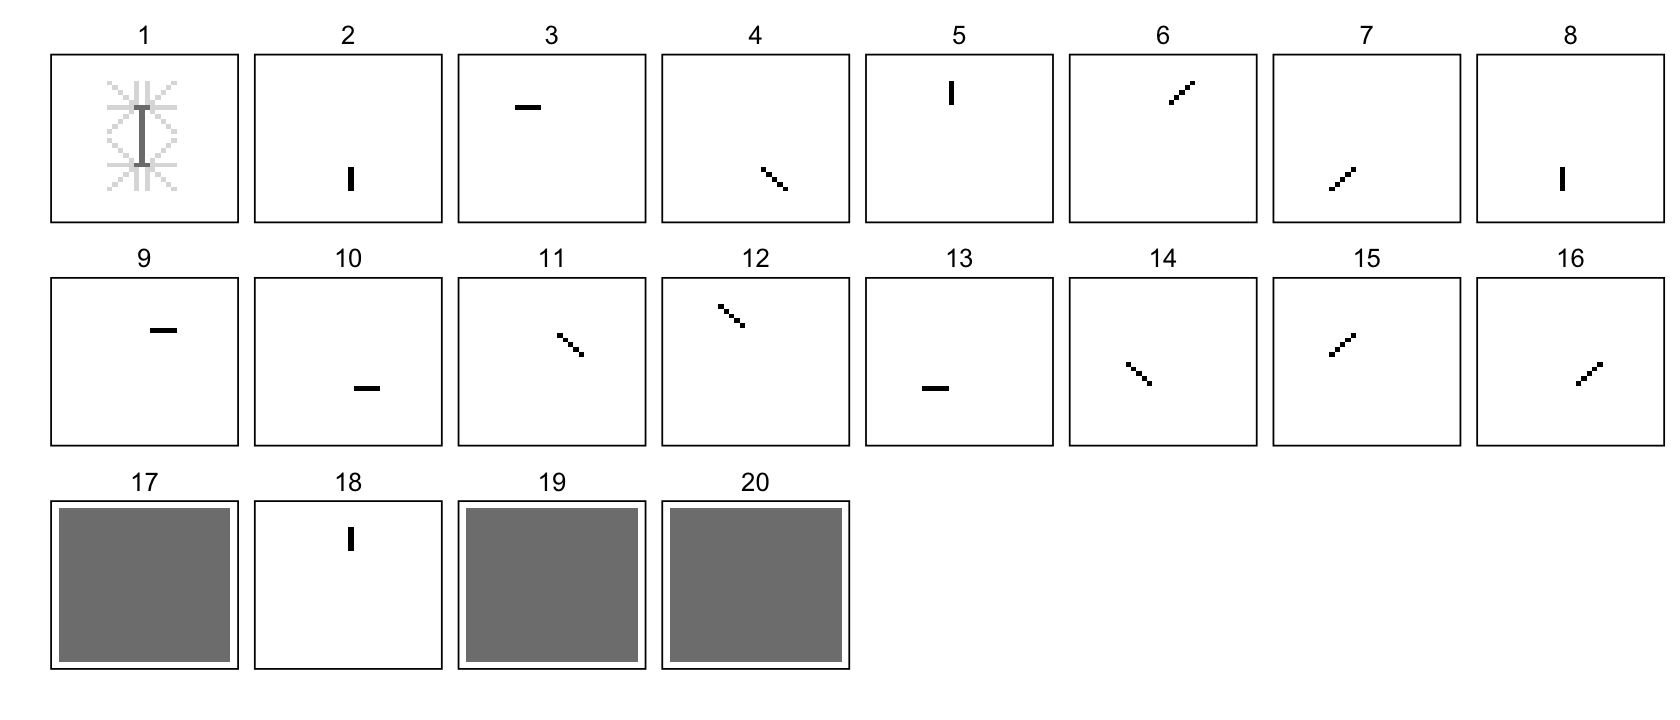
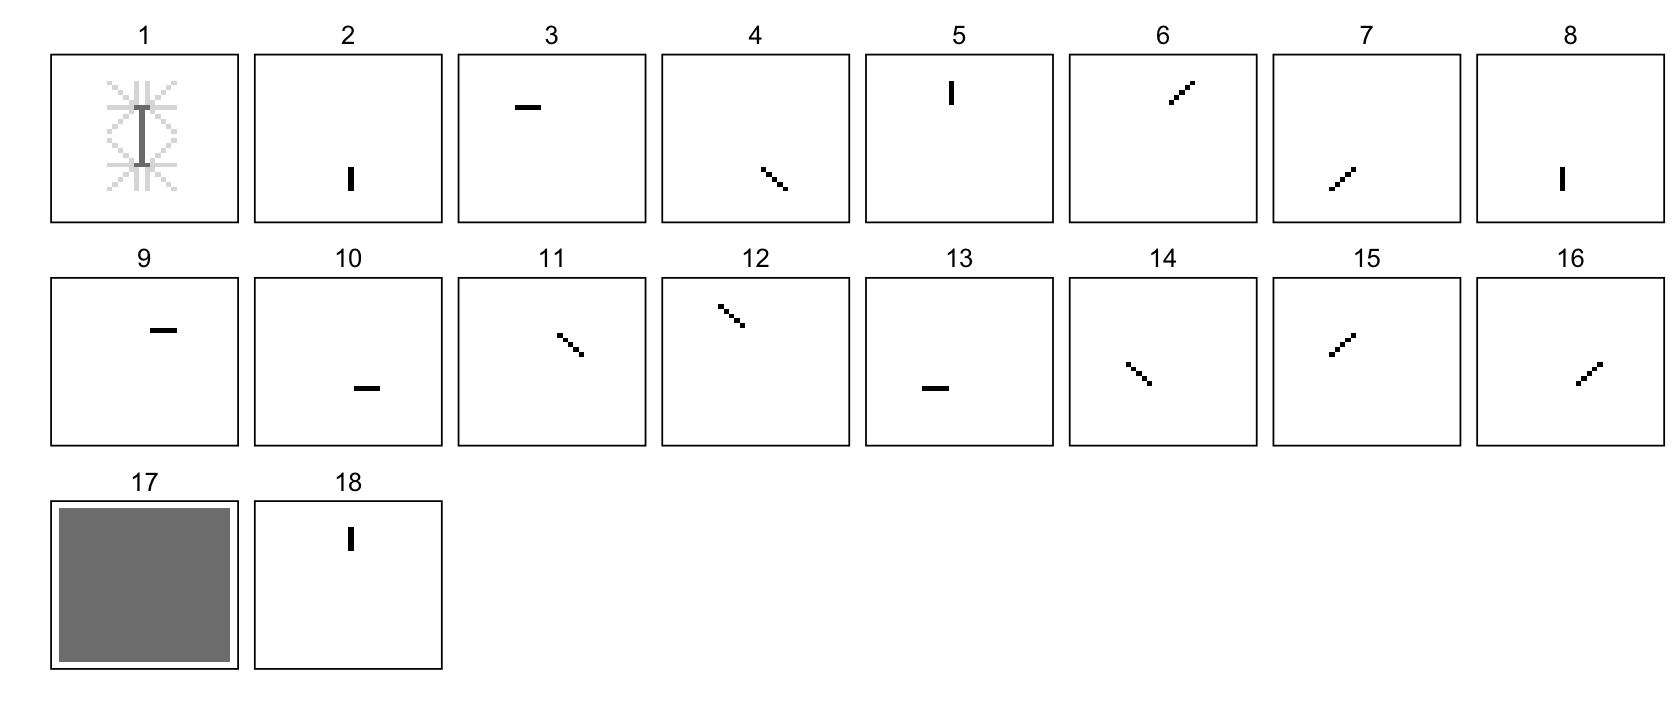
A few small fixes to swimmer_more.

Changed region(s): [[0.2786, 0.6417, 0.5262, 0.9472]]

diff --git a/docs/swimmer_more.html b/docs/swimmer_more.html
@@ -432,15 +432,15 @@ project makes it easier to run your code on other machines.</p>
 <div class="panel panel-default">
 <div class="panel-heading">
 <p class="panel-title">
-<a data-toggle="collapse" data-parent="#workflowr-checks" href="#strongRepositoryversionstrongahrefhttpsgithubcomwillwerscheidebnmfpapertreeeda17ec147303ced2f06dd555460445a35b3a098targetblankeda17eca">
+<a data-toggle="collapse" data-parent="#workflowr-checks" href="#strongRepositoryversionstrongahrefhttpsgithubcomwillwerscheidebnmfpapertree86087980fd1b786d668b7b92ed8862900a26abbatargetblank8608798a">
 <span class="glyphicon glyphicon-ok text-success"
 aria-hidden="true"></span> <strong>Repository version:</strong>
-<a href="https://github.com/willwerscheid/ebnmf-paper/tree/eda17ec147303ced2f06dd555460445a35b3a098" target="_blank">eda17ec</a>
+<a href="https://github.com/willwerscheid/ebnmf-paper/tree/86087980fd1b786d668b7b92ed8862900a26abba" target="_blank">8608798</a>
 </a>
 </p>
 </div>
 <div
[2 lines of base64/hex data omitted]
 class="panel-collapse collapse">
 <div class="panel-body">
 <p>
@@ -450,7 +450,7 @@ reproducibility.
 </p>
 <p>
 The results in this page were generated with repository version
-<a href="https://github.com/willwerscheid/ebnmf-paper/tree/eda17ec147303ced2f06dd555460445a35b3a098" target="_blank">eda17ec</a>.
+<a href="https://github.com/willwerscheid/ebnmf-paper/tree/86087980fd1b786d668b7b92ed8862900a26abba" target="_blank">8608798</a>.
 See the <em>Past versions</em> tab to see a history of the changes made
 to the R Markdown and HTML files.
 </p>
@@ -509,6 +509,40 @@ Message
 </tr>
 </thead>
 <tbody>
+<tr>
+<td>
+Rmd
+</td>
+<td>
+<a href="https://github.com/willwerscheid/ebnmf-paper/blob/86087980fd1b786d668b7b92ed8862900a26abba/analysis/swimmer_more.Rmd" target="_blank">8608798</a>
+</td>
+<td>
+Peter Carbonetto
+</td>
+<td>
+2024-01-04
+</td>
+<td>
+wflow_publish("analysis/swimmer_more.Rmd", verbose = TRUE)
+</td>
+</tr>
+<tr>
+<td>
+html
+</td>
+<td>
+<a href="https://rawcdn.githack.com/willwerscheid/ebnmf-paper/fe18260c2dab7a0c2b1466353220ce1dcf308471/docs/swimmer_more.html" target="_blank">fe18260</a>
+</td>
+<td>
+Peter Carbonetto
+</td>
+<td>
+2024-01-04
+</td>
+<td>
+Build site.
+</td>
+</tr>
 <tr>
 <td>
 Rmd
@@ -1531,25 +1565,58 @@ Peter Carbonetto
 swimmer data set (backfitting only needs to clean up the first factor).
 And this seems due in large part to the “greediness” of the approach
 rather than to any sparsity-inducing properties of the priors. Indeed,
-if we simply use <code>flashier</code>’s greedy initialization function
-(alternating least squares) without doing any optimization on the
-initialized factors, we get similar results:</p>
-<pre class="r"><code>fl2 &lt;- flash_init(Y)
-for (i in 1:20) {
-  next_f &lt;- flash_greedy_init_default(flash_fit(fl2), sign_constraints = c(1, 1), seed = i)
-  next_f &lt;- lapply(next_f, as.matrix, ncol = 1)
-  fl2 &lt;- flash_factors_init(fl2, next_f)
+if we simply use flashier’s greedy initialization function (alternating
+least-squares) without doing any optimization on the initialized
+factors, we get similar results:</p>
+<pre class="r"><code>k &lt;- 18
+fl2 &lt;- flash_init(Y)
+for (i in 1:k) {
+  next_f &lt;- flash_greedy_init_default(flash_fit(fl2),seed = i,
+                                      sign_constraints = c(1,1))
+  next_f &lt;- lapply(next_f,as.matrix,ncol = 1)
+  fl2    &lt;- flash_factors_init(fl2,next_f)
 }
-# Warning in scale.EF(EF): Fitting stopped after the initialization function
-# failed to find a non-zero factor.
-
-# Warning in scale.EF(EF): Fitting stopped after the initialization function
-# failed to find a non-zero factor.
-
 # Warning in scale.EF(EF): Fitting stopped after the initialization function
 # failed to find a non-zero factor.
 plot_images(ldf(fl2)$L,nrow = 3,ncol = 8)</code></pre>
 <p><img src="figure/swimmer_more.Rmd/flash-greedy-2-1.png" width="840" style="display: block; margin: auto;" /></p>
+<p>
+<button type="button" class="btn btn-default btn-xs btn-workflowr btn-workflowr-fig" data-toggle="collapse" data-target="#fig-flash-greedy-2-1">
+Past versions of flash-greedy-2-1.png
+</button>
+</p>
+<div id="fig-flash-greedy-2-1" class="collapse">
+<div class="table-responsive">
+<table class="table table-condensed table-hover">
+<thead>
+<tr>
+<th>
+Version
+</th>
+<th>
+Author
+</th>
+<th>
+Date
+</th>
+</tr>
+</thead>
+<tbody>
+<tr>
+<td>
+<a href="https://github.com/willwerscheid/ebnmf-paper/blob/fe18260c2dab7a0c2b1466353220ce1dcf308471/docs/figure/swimmer_more.Rmd/flash-greedy-2-1.png" target="_blank">fe18260</a>
+</td>
+<td>
+Peter Carbonetto
+</td>
+<td>
+2024-01-04
+</td>
+</tr>
+</tbody>
+</table>
+</div>
+</div>
 <p>Now let’s see what happens when we initialize the flashier
 factorization at random and when we don’t adapt the prior. Let’s start
 with a naive “flat” prior, and fix it rather than allow it to adapt it
